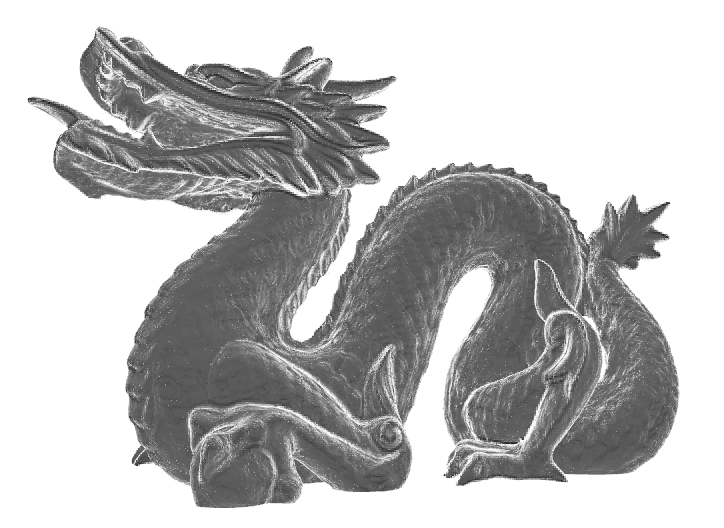
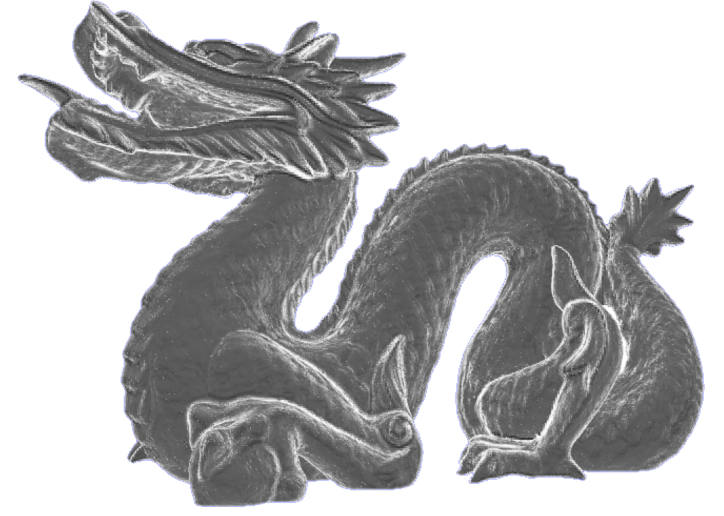
Updated readme. Made image background transparent.

Changed region(s): [[0.0304, 0.0, 0.9724, 0.9922]]

diff --git a/README.md b/README.md
@@ -1,18 +1,24 @@
 
- # A Unity Shader for Mean Curvature
+ # Mean Curvature Shader for Unity 
 
 
+<div align="center">
+    <img src="https://github.com/JacobRThompson/Unity-MeanCurvatureShader/blob/master/Misc/DemoImage.png?raw=true" 
+    alt="Demonstration Image" width="75%" height="75%" />
+</div>
+<div  align="center" style="margin-left: 10%; margin-right: 10%; font-weight: lighter; font-size: smaller">
+    Sample output. Max curvature mapped to (255,255,255); min curvature mapped to (0,0,0). e = 3.5.
+</div>
+
+My senior seminar project to fulfill the requirements for my bachelor of mathematics. The accompanying paper can be found
+[here](https://www.example.com/), while a video demonstration can be found
+[here](https://github.com/JacobRThompson/Unity-MeanCurvatureShader/blob/master/Misc/DemoAnimation.mp4).
+
+## Description:
+
+## Use:
 
 
-
-This was my senior seminar project to fulfill the requirements for my bachelor
-of mathematics. The accompanying paper can be found
-[here](https://www.example.com/), while a demonstration of the
-too can be found [here](https://github.com/JacobRThompson/MeanCurvatureShader/raw/master/Recordings/Animation.mp4).
-
-
-<img src="http://img.youtube.com/vi/YOUTUBE_VIDEO_ID_HERE/0.jpg" 
-alt="Demonstration Image" width="240" height="180" border="10" /></a>
-
+## Included Scenes:
 
 
